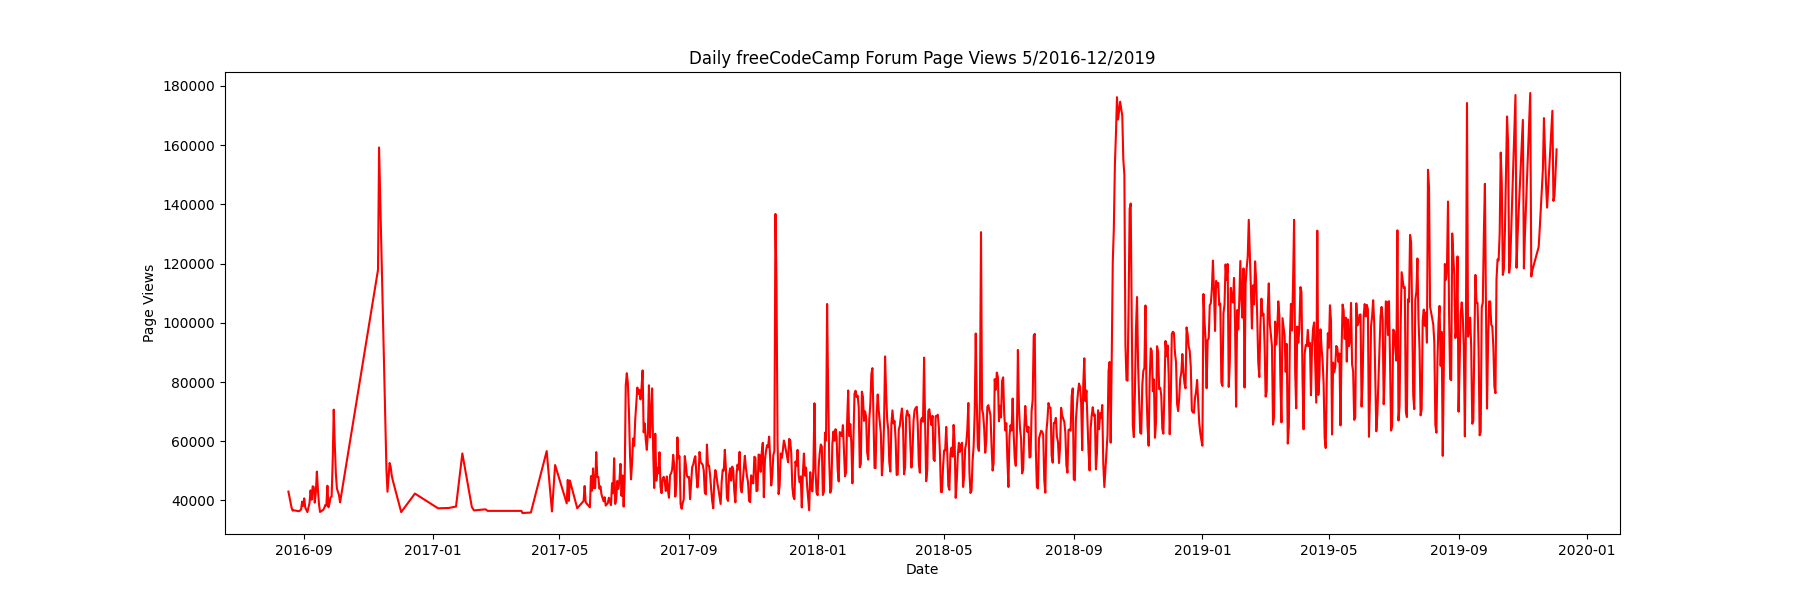
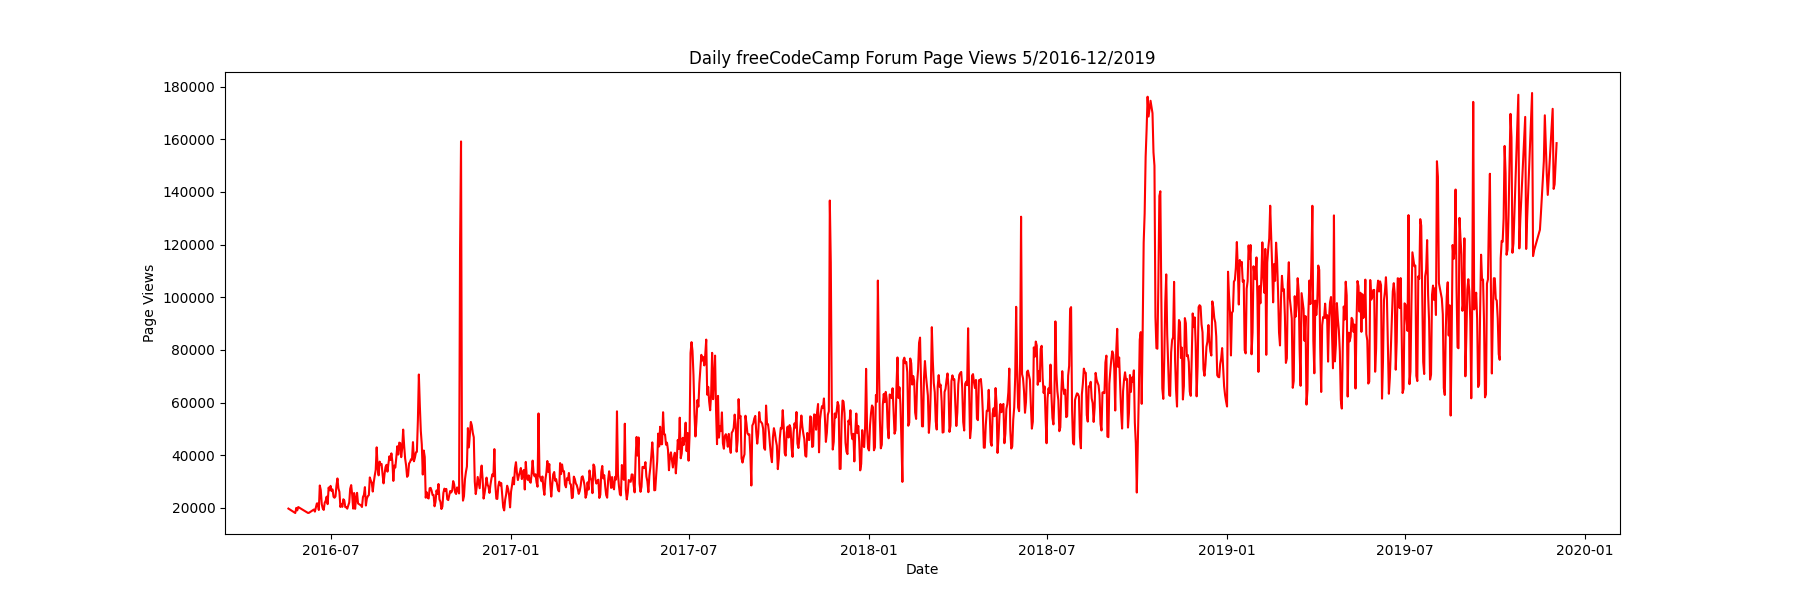
adjust lower quartile cleaning issue

diff --git a/time_series_visualizer.py b/time_series_visualizer.py
@@ -8,7 +8,7 @@ register_matplotlib_converters()
 df = pd.read_csv('fcc-forum-pageviews.csv', parse_dates=['date'], index_col='date')
 
 # Clean data
-df = df[(df['value'] > df['value'].quantile(0.25)) & (df['value'] < df['value'].quantile(0.975))]
+df = df[(df['value'] > df['value'].quantile(0.025)) & (df['value'] < df['value'].quantile(0.975))]
 
 def draw_line_plot():
     # Draw line plot
